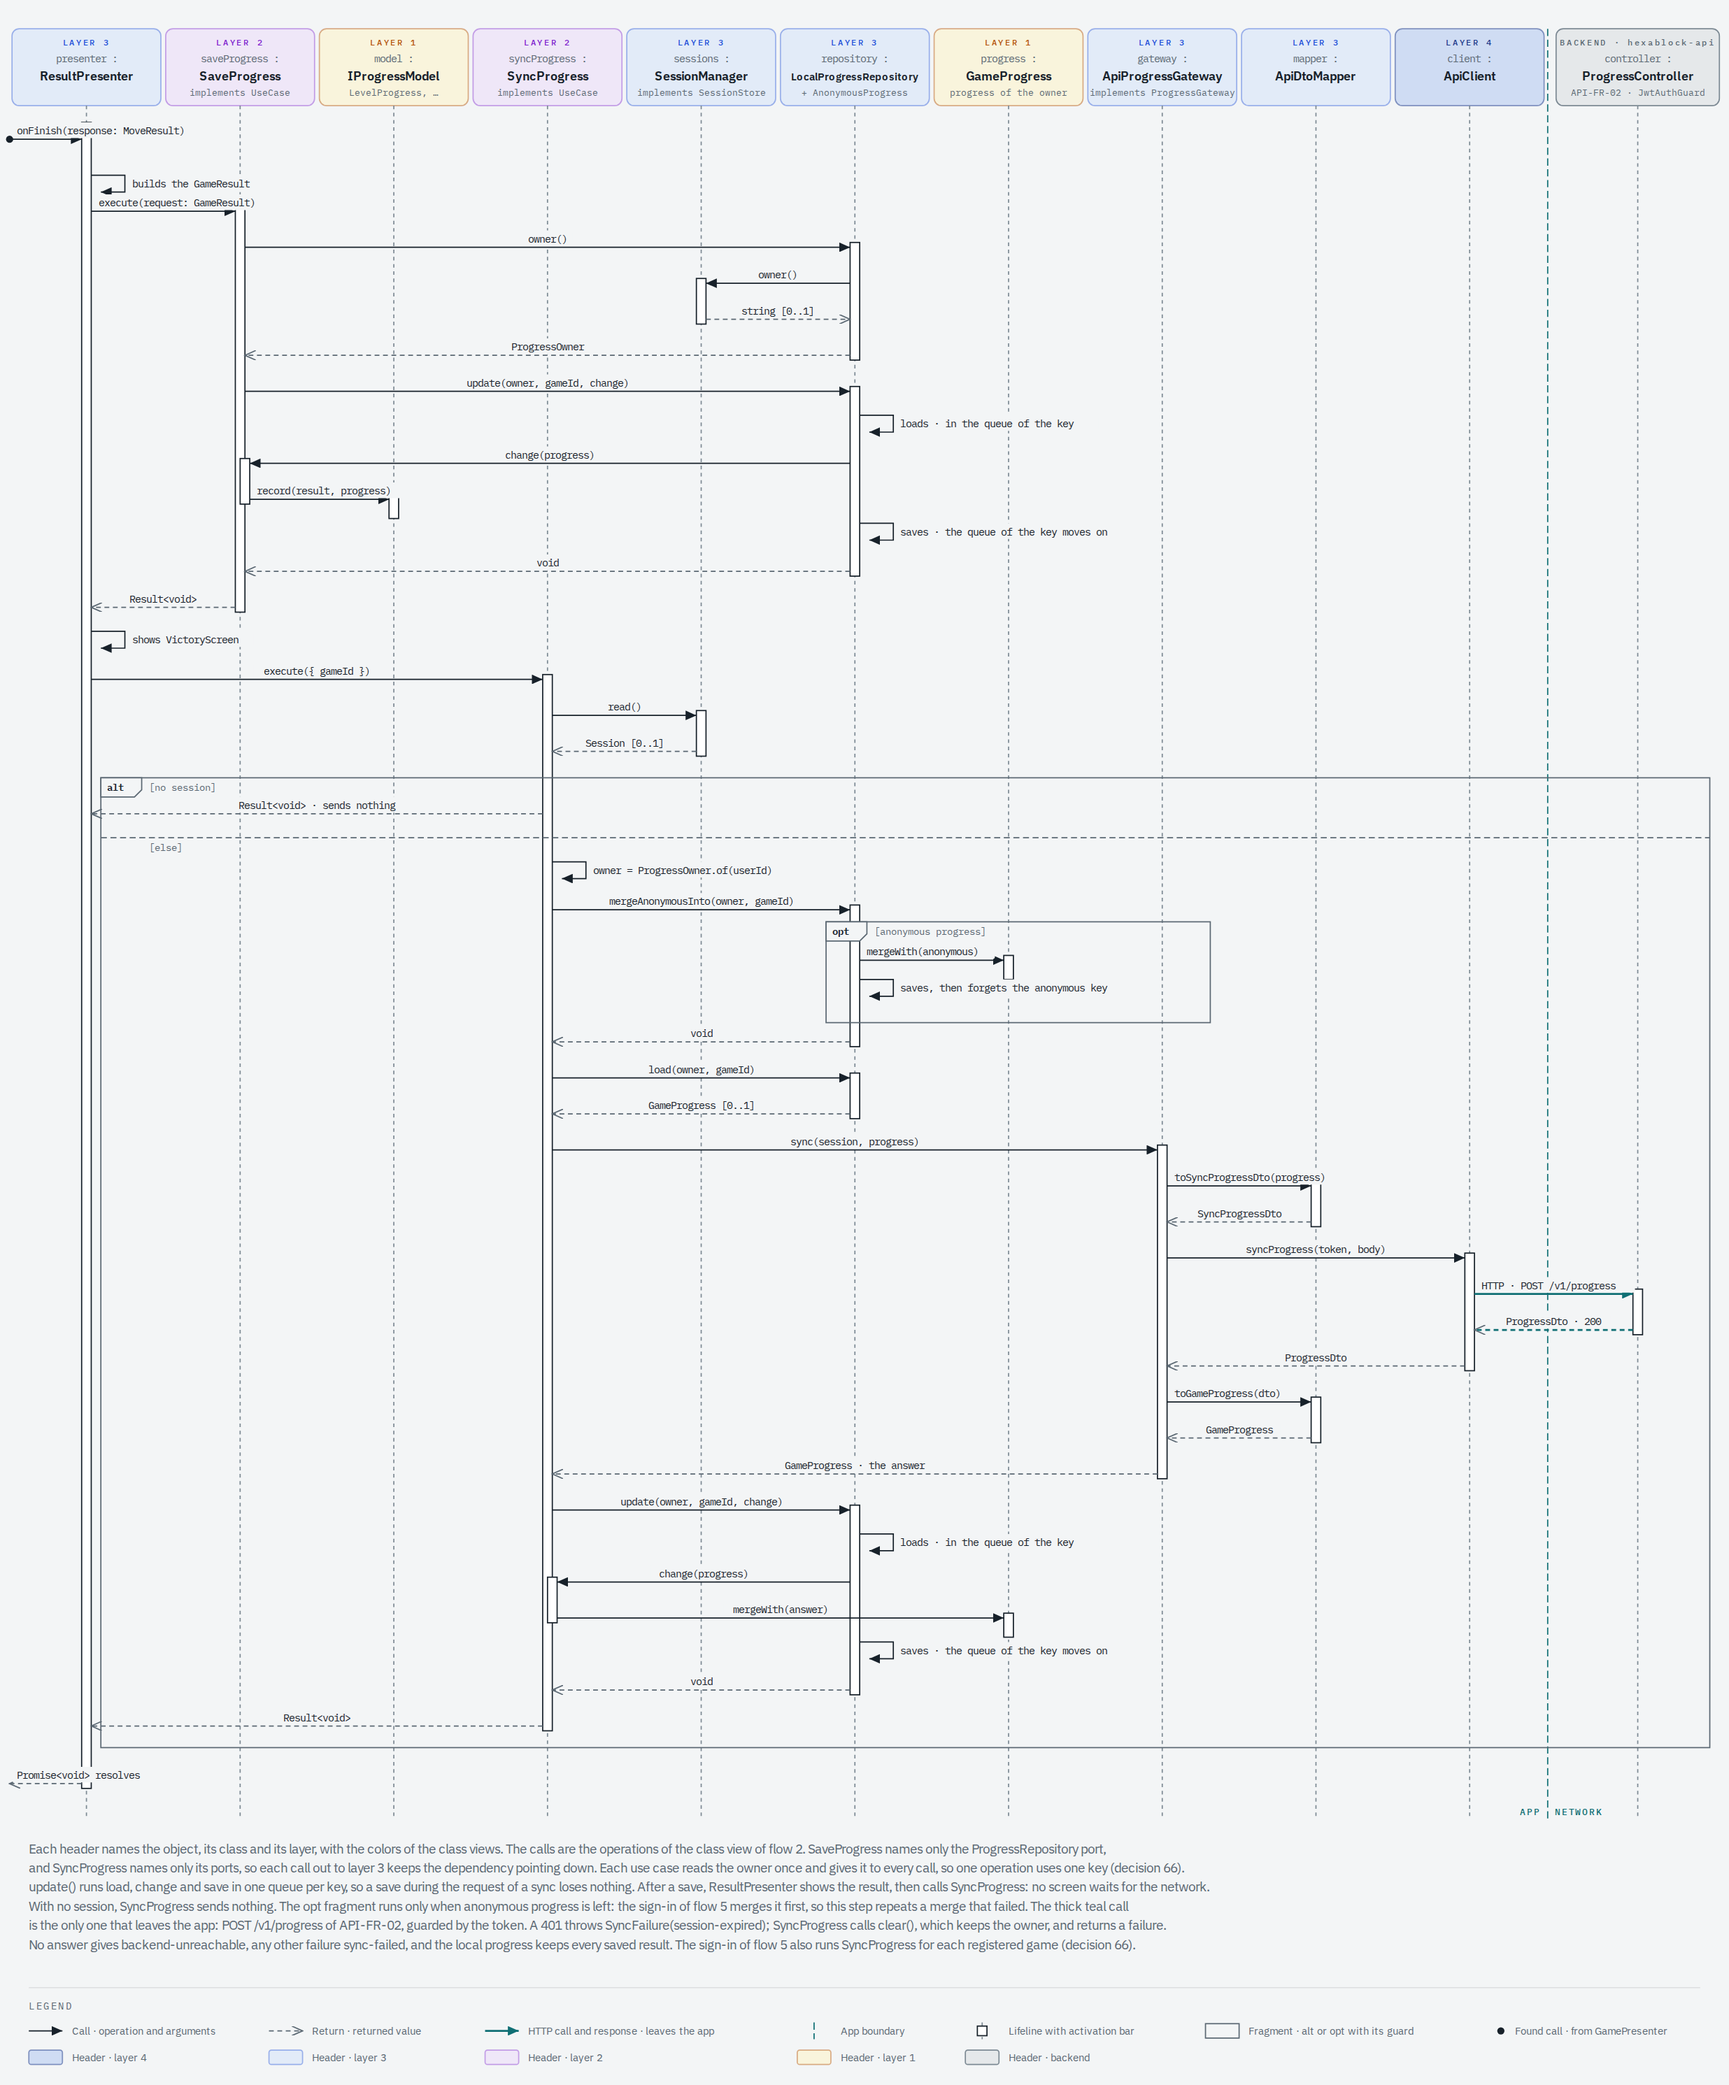
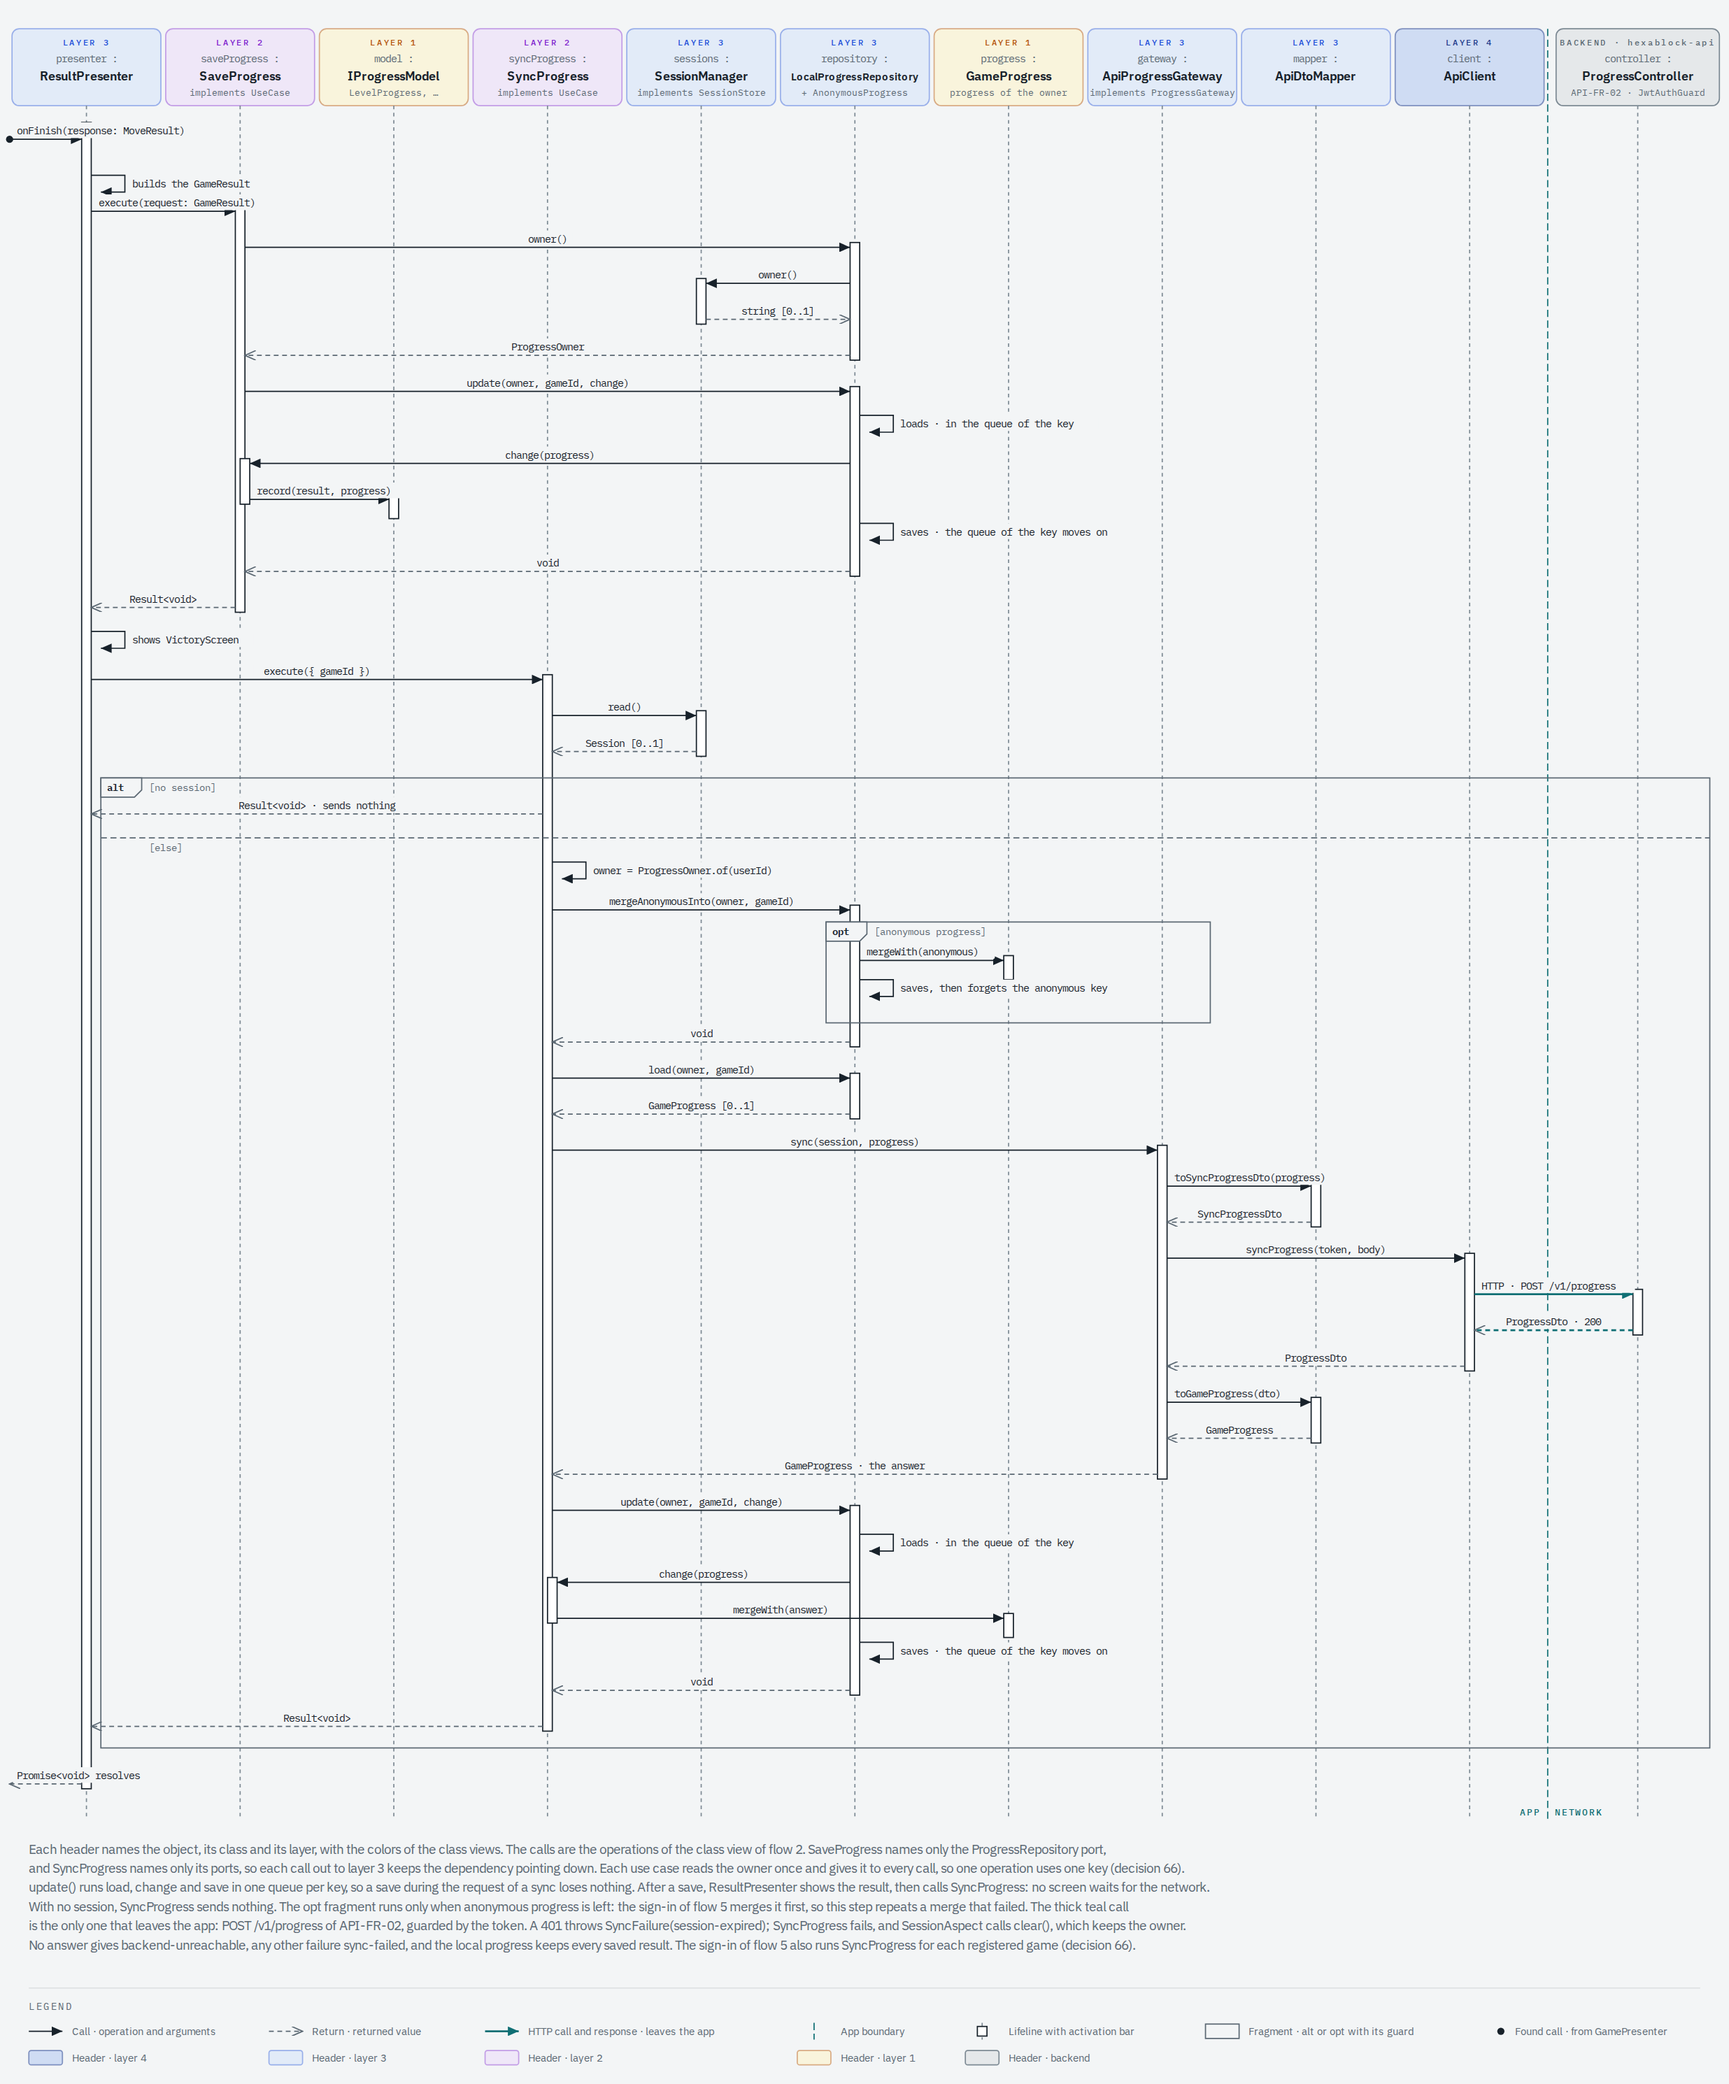
docs: say that SessionAspect clears the session in the README, seq-2 and the test comments (#481)
Refs #481

diff --git a/test/adapters/account-presenter.test.ts b/test/adapters/account-presenter.test.ts
@@ -205,7 +205,7 @@ describe('AccountPresenter and the sync after a sign-in', () => {
     expect(presenter.viewModel()).toEqual({ ...formOf(), signedIn: 'Sesión iniciada como ada' });
   });
 
-  // `SyncProgress` cleared the session, so the player must sign in again. The sync stops there.
+  // `SessionAspect` cleared the session, so the player must sign in again. The sync stops there.
   it('should_show_the_text_of_an_expired_session_when_the_sync_after_the_sign_in_gives_session_expired', async () => {
     const sync = new SyncingUseCase(
       Result.failure(

diff --git a/test/infrastructure/progress-sync.test.ts b/test/infrastructure/progress-sync.test.ts
@@ -198,7 +198,7 @@ describe('progress sync through the root', () => {
     expect(own?.starsOf(LevelId.of('fit-01'))?.equals(Stars.of(3))).toBe(true);
   });
 
-  // A failed sync never loses local progress. A refused token clears the session.
+  // A failed sync never loses local progress. `SessionAspect` clears the session on a refused token.
   it('should_keep_the_saved_result_and_clear_the_session_when_the_backend_refuses_the_token', async () => {
     const store = new InMemoryKeyValueStore();
     const secrets = new InMemorySecretStore();

diff --git a/test/adapters/result-presenter.test.ts b/test/adapters/result-presenter.test.ts
@@ -375,7 +375,7 @@ describe('ResultPresenter', () => {
     expect(sync.requests).toHaveLength(0);
   });
 
-  // The token lives 24 hours and has no refresh. `SyncProgress` clears the session, and the result
+  // The token lives 24 hours and has no refresh. `SessionAspect` clears the session, and the result
   // asks the player to sign in. The result stays, because the local progress keeps it.
   it('should_ask_the_player_to_sign_in_and_keep_the_result_when_the_sync_gives_session_expired', async () => {
     const sync = new SyncingUseCase(

diff --git a/docs/architecture/flows/views/seq-2-save-progress.html b/docs/architecture/flows/views/seq-2-save-progress.html
@@ -2004,8 +2004,8 @@
           font-family="'IBM Plex Sans', sans-serif"
         >
           is the only one that leaves the app: POST /v1/progress of API-FR-02, guarded by the token.
-          A 401 throws SyncFailure(session-expired); SyncProgress calls clear(), which keeps the
-          owner, and returns a failure.
+          A 401 throws SyncFailure(session-expired); SyncProgress fails, and SessionAspect calls
+          clear(), which keeps the owner.
         </text>
         <text
           x="24"

diff --git a/src/application/README.md b/src/application/README.md
@@ -13,7 +13,7 @@ The files sit in one folder per group of use cases, as in hexablock-api (#500). 
 | `levels/`       | `ListLevels` and `LevelSummary`                                                                                                                                                                             | `ports/` and the root            |
 | `achievements/` | `ListAchievements` and `Achievement`                                                                                                                                                                        | `ports/` and the root            |
 | `ports/`        | The repositories, the gateways, `SessionStore`, `GameEventPublisher`, `GameFactories`, and the types that the ports carry: `Session`, `ProgressOwner`, `AnonymousProgress`, `Credentials` and `Leaderboard` | The root                         |
-| `aspects/`      | `UseCaseAspect`, `LoggingAspect`, `SessionAspect` and the `Logger` port                                                                                                                                     | The root                         |
+| `aspects/`      | `UseCaseAspect`, `LoggingAspect`, `SessionAspect` and the `Logger` port                                                                                                                                     | `ports/` and the root            |
 | Root            | `UseCase` and `Result` with `FailureCode`                                                                                                                                                                   | Nothing                          |
 
 `game/` imports `levels/` for one function: `StartGame` orders the levels of its figure with `levelsOnFigure()` of `levels/list-levels.ts`, the order of `ListLevels`.

diff --git a/docs/architecture/classes.md b/docs/architecture/classes.md
@@ -2369,7 +2369,8 @@ Decisions 41 to 49 planned the units of the domain redesign, and each one names 
     The use cases no longer clear the session: `readBoard()` and `SyncProgress` only give `session-expired`.
     Each use case still reads the session for its token, because its gateway needs it, so a call reads the session twice.
     `readBoard()` still gives `sign-in-required` with no session, because the session can disappear between the two reads.
-    Option B removed the planned aspect from the README, this file and the views, and kept the check of the session in each use case.
+    Option B would remove the planned aspect from the README, this file and the views, and keep the check of the session in each use case.
+    Option B was not chosen.
     View 3.1 draws `SessionAspect` as a class of the code, and views 3.4 and 3.7, the map of Part 3 and view 4 of [extensibility.md](extensibility.md) name it.
 
 ## Render the images
